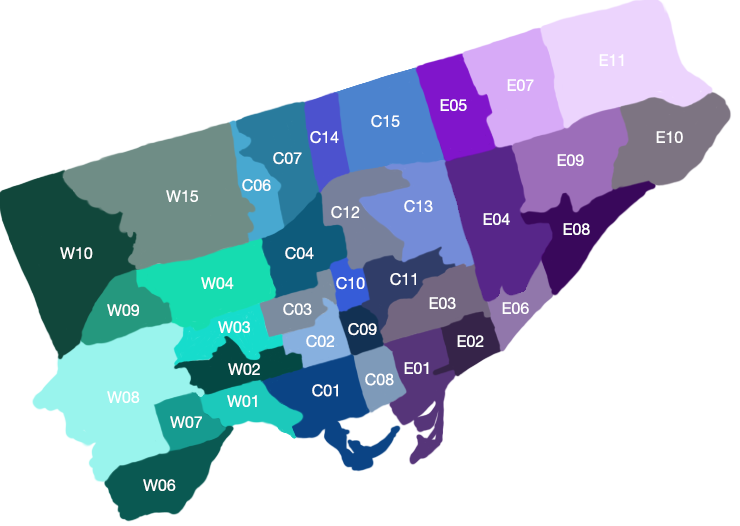
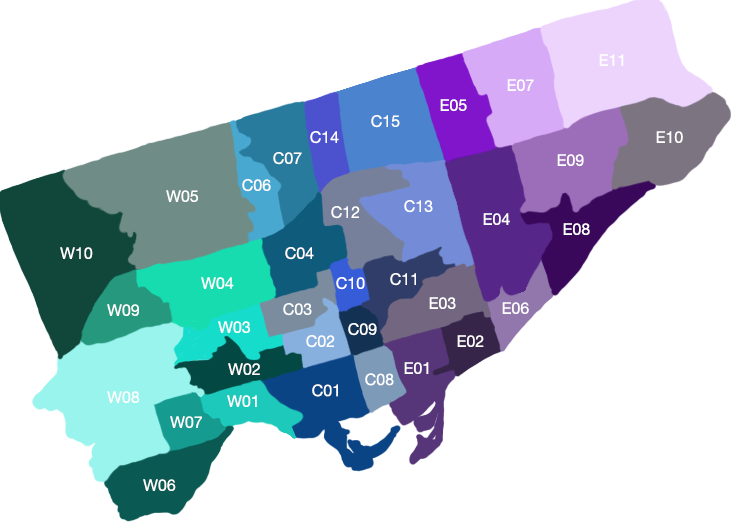
map click feature skeleton done

Changed region(s): [[0.5284, 0.7605, 0.5905, 0.8517], [0.4662, 0.8213, 0.5284, 0.8517], [0.2486, 0.365, 0.2797, 0.3954]]

diff --git a/revisual-frontend/src/map.jsx b/revisual-frontend/src/map.jsx
@@ -3,24 +3,84 @@ import MapImg from './images/Toronto_area.png';
 import { Jumbotron } from 'react-bootstrap';
 
 class Map extends Component {
-  
+  constructor() {
+    super();
+
+    this.state = { 
+      active: true,
+      w10active: false,
+      w05active: false,
+    } 
+  }
+
+  toggleMapW10 = (e) => {
+  // function that will toggle active/false
+    e.preventDefault();
+    this.setState({
+      active: false,
+      w10active: true,
+      w05active: false
+    });
+  }
+
+  toggleMapW05 = (e) => {
+    // function that will toggle active/false
+      e.preventDefault();
+      this.setState({
+        active: false,
+        w10active: false,
+        w05active: true
+      });
+    }
+
+    toggleIntro = (e) => {
+      e.preventDefault();
+      this.setState({
+        active: true,
+        w10active: false,
+        w05active: false
+      });
+    }
+
   render() {
     return (
         <div className="map">
           <div className="map-img"><img className="map-img" alt='' src={MapImg} useMap="Map2"/></div>
-          <div className="description">
-            <Jumbotron>
-              <h1>Hello, world!</h1>
-              <p>
-                This is a simple hero unit, a simple jumbotron-style component for calling
-                extra attention to featured content or information.
+          <div onClick={this.toggleIntro} className="description">
+          {this.state.active && <Jumbotron >
+              <h1>What we offer ?</h1>
+              <p >
+                Most recent data from Toronto Real Estate Board ! 
+                Generate Market Stats for each municipality in Toronto !
+                Customize own your Market Stats for your business !
               </p>
             </Jumbotron>
+          }
+          {!this.state.active && this.state.w10active &&
+            <Jumbotron>
+              <h1>W10 neighbor</h1>
+              <p >
+                Most recent data from Toronto Real Estate Board ! 
+                Generate Market Stats for each municipality in Toronto !
+                Customize own your Market Stats for your business !
+              </p>
+            </Jumbotron>
+          }
+          {!this.state.active && this.state.w05active &&
+            <Jumbotron>
+              <h1>W05 neighbor</h1>
+              <p >
+                Most recent data from Toronto Real Estate Board ! 
+                Generate Market Stats for each municipality in Toronto !
+                Customize own your Market Stats for your business !
+              </p>
+            </Jumbotron>
+          }
           </div>
           <map name="Map2" id="Map2">
             <area shape="poly" alt="" coords="6,196" className="#"/>
-            <area shape="poly" alt="" coords="8,196,76,176,67,184,66,191,72,199,80,203,88,207,96,212,101,218,107,216,116,214,117,220,117,230,125,238,131,239,131,247,126,258,131,266,111,278,101,290,90,311,80,336,70,348,62,353,6,220" className="w10"/>
-            <area shape="poly" alt="" coords="83,175,230,128,240,199,244,201,250,202,254,207,247,212,249,222,253,229,244,238,191,256,174,259,148,260,137,266,131,254,138,241,138,234,134,230,128,231,122,218,115,211,105,205,98,207,83,191,75,184" className="w05"/>
+            <area onClick={this.toggleMapW10} shape="poly" alt="" coords="8,196,76,176,67,184,66,191,72,199,80,203,88,207,96,212,101,218,107,216,116,214,117,220,117,230,125,238,131,239,131,247,126,258,131,266,111,278,101,290,90,311,80,336,70,348,62,353,6,220" className="w10"/>
+            <area onClick={this.toggleMapW05} shape="poly" alt="" coords="83,175,230,128,240,199,244,201,250,202,254,207,247,212,249,222,253,229,244,238,191,256,174,259,148,260,137,266,131,254,138,241,138,234,134,230,128,231,122,218,115,211,105,205,98,207,83,191,75,184" className="w05"/>
             <area shape="poly" alt="" coords="239,126,301,107,317,188,284,221,280,190,292,181,286,181,273,170,260,154,246,150,255,140" className="c07"/>
             <area shape="poly" alt="" coords="252,239,272,235,279,223,274,189,278,182,266,171,252,163,240,155,237,150,246,143,248,137,235,130,244,188,254,200,259,209,252,214" className="c06"/>
             <area shape="poly" alt="" coords="305,106,322,187,333,172,348,169,335,97" className="c14"/>

diff --git a/revisual-frontend/src/App.css b/revisual-frontend/src/App.css
@@ -42,3 +42,43 @@
   font-weight: bold;
   padding-top: 20vh;
 }
+
+.jumbotron {
+  margin: 40px;
+  padding: 20px;
+  background: transparent;
+}
+
+.jumbotron h1 {
+  margin: 0px;
+  font-weight: bold;
+  overflow: hidden; /* Ensures the content is not revealed until the animation */
+  border-right: .15em solid black; /* The typwriter cursor */
+  white-space: nowrap; /* Keeps the content on a single line */
+  letter-spacing: .15em; /* Adjust as needed */
+  animation: 
+    typing 3.5s steps(30, end),
+    blink-caret .5s step-end infinite;
+}
+
+.jumbotron p {
+  margin: 0px;
+  padding: 20px;
+  font-weight: bold;
+}
+
+img.map-img {
+  margin: 40px;
+}
+
+/* The typing effect */
+@keyframes typing {
+  from { width: 0 }
+  to { width: 100% }
+}
+
+/* The typewriter cursor effect */
+@keyframes blink-caret {
+  from, to { border-color: transparent }
+  50% { border-color: black }
+}
